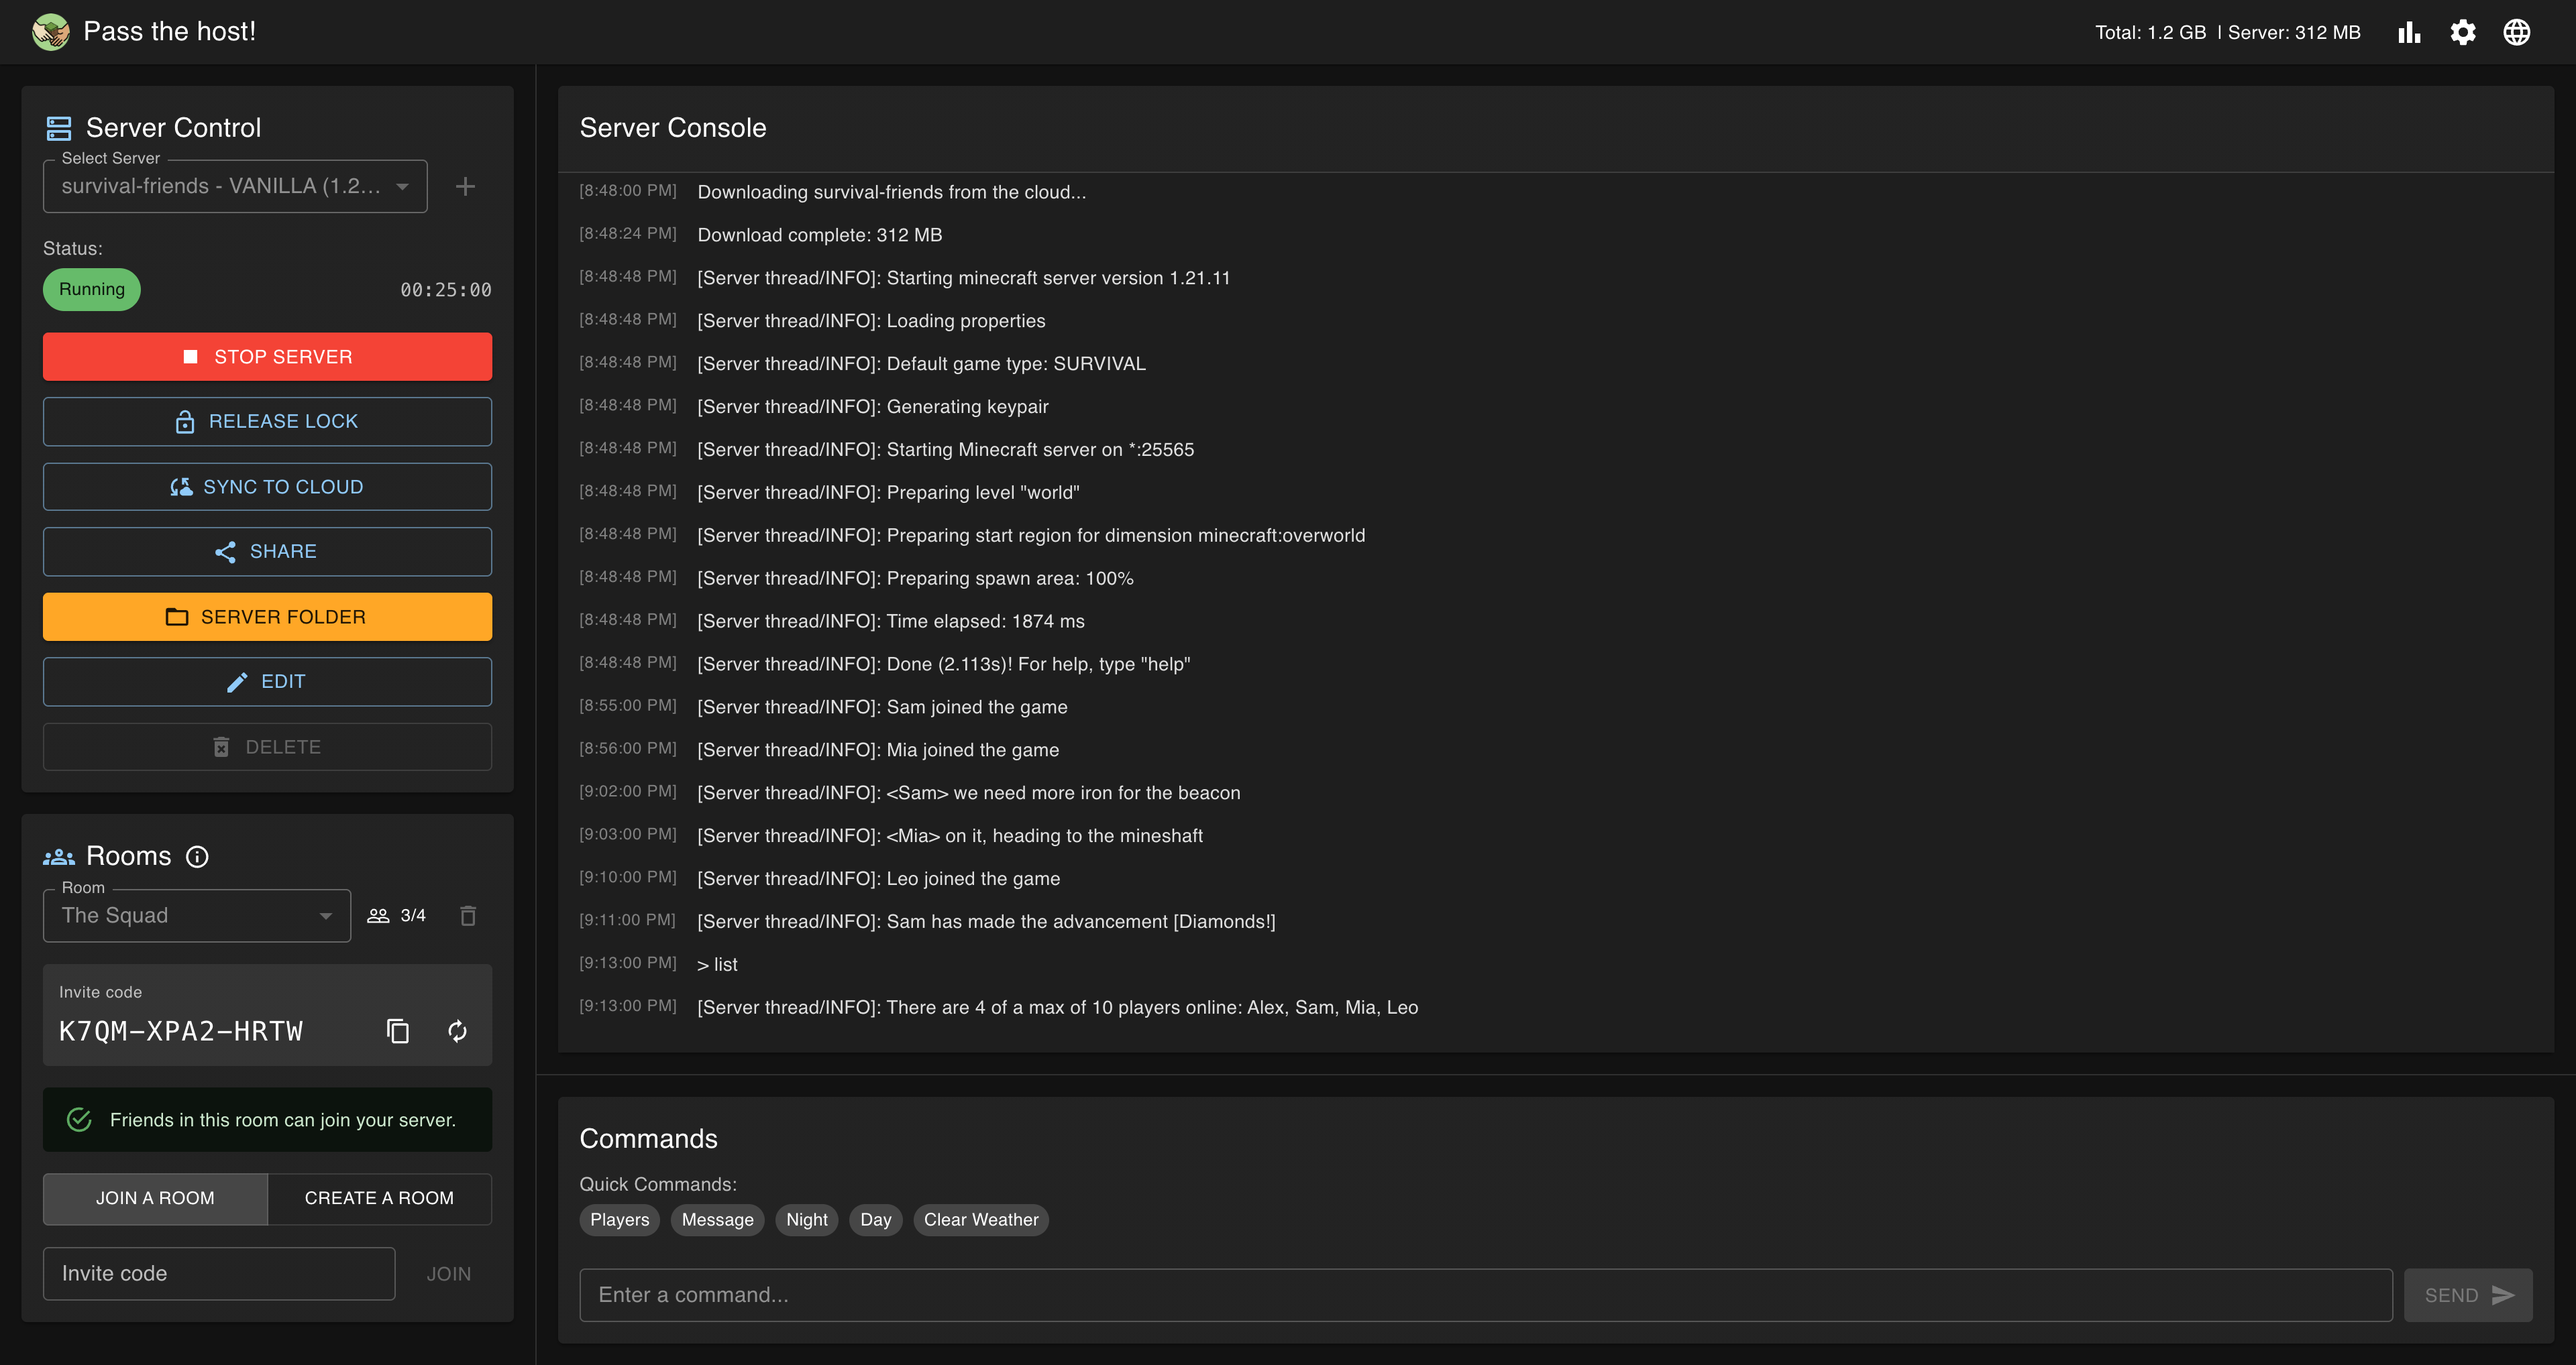
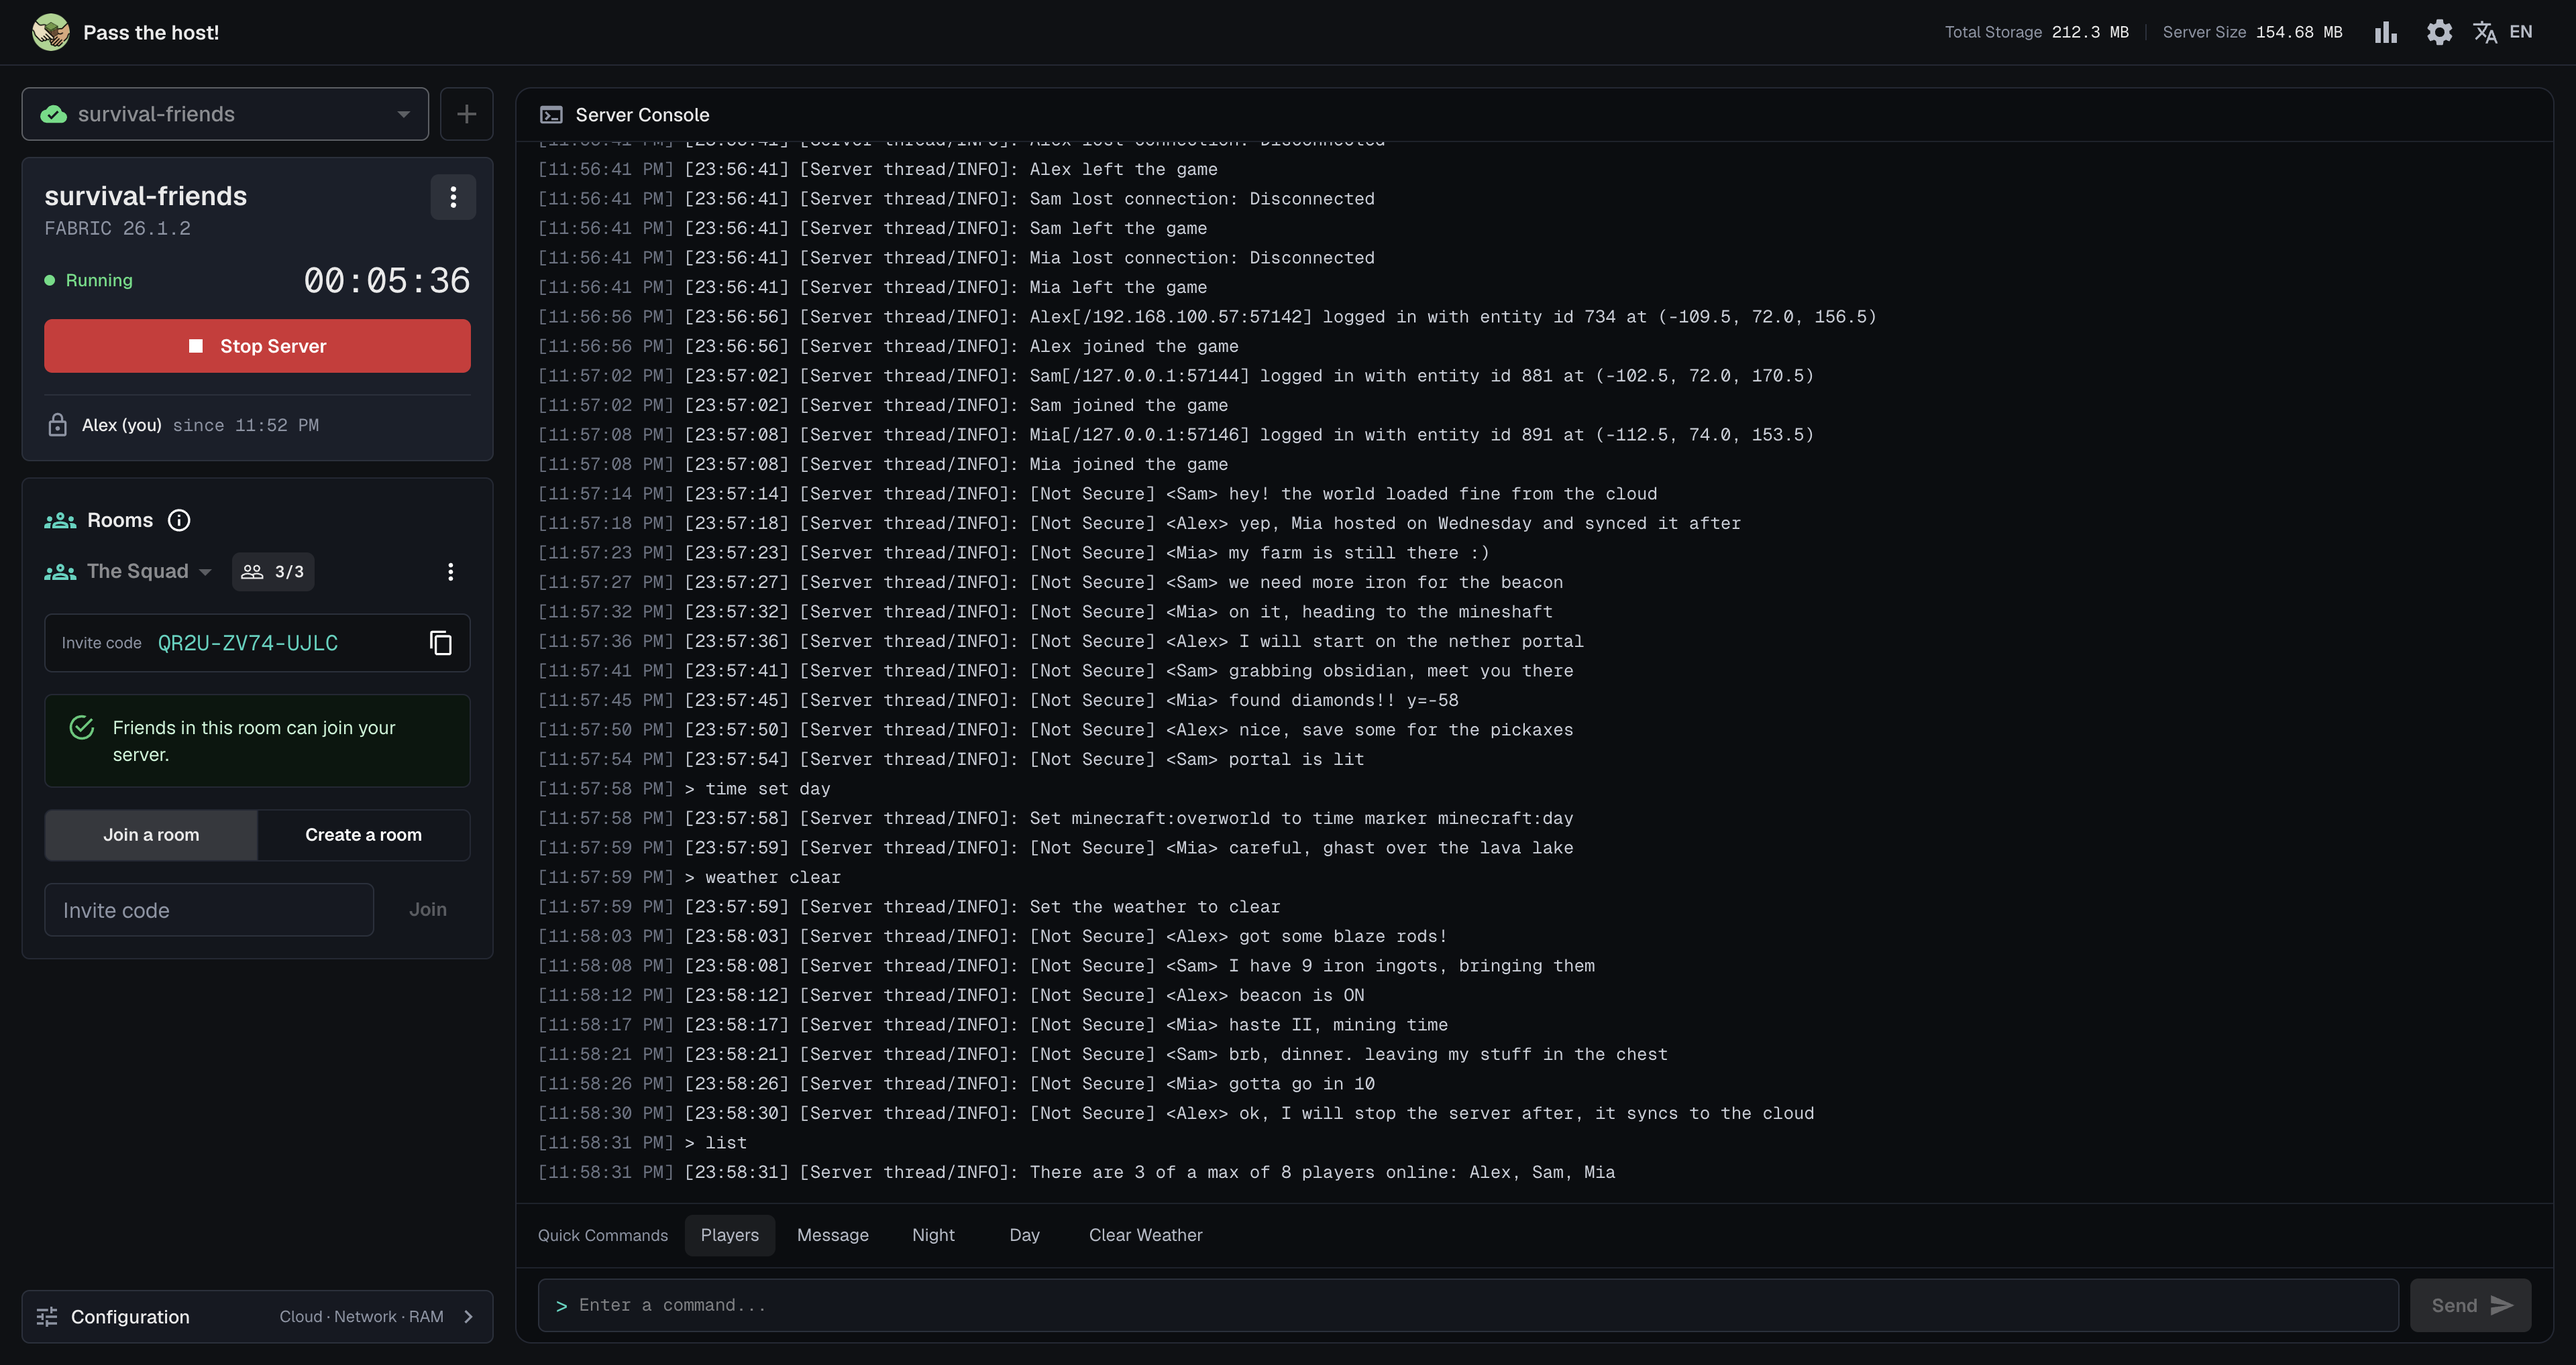
chore(site): add a screenshots section and refresh the hero and features shots
Claude-Session: https://claude.ai/code/session_01QGVTuk2ReewAoFpk41qBqj

diff --git a/site/app/dictionaries.ts b/site/app/dictionaries.ts
@@ -93,6 +93,32 @@ const es = {
     ],
     screenshotAlt: "Diálogo para crear un servidor nuevo en Pass the host",
   },
+  gallery: {
+    title: "Así se ve",
+    subtitle: "Capturas reales de un grupo jugando: uno hostea y el resto entra por la sala.",
+    items: [
+      {
+        title: "Tus amigos entran por la sala",
+        text: "Conectados al servidor de quien hostea, con los mods del servidor ya sincronizados.",
+        alt: "Pass the host de un amigo conectado a la sala, con la dirección localhost:25565 y los mods al día",
+      },
+      {
+        title: "Mods para cada lado",
+        text: "Distingue los mods del cliente, del servidor y de ambos, y avisa si alguno no es compatible.",
+        alt: "Gestor de mods de un servidor Fabric con la lista de mods instalados",
+      },
+      {
+        title: "Todo queda en tu nube",
+        text: "Al cerrar el servidor, los cambios se suben solos para que otro lo pueda abrir.",
+        alt: "Diálogo de subida a la nube con el progreso en Pass the host",
+      },
+      {
+        title: "Quién hosteó y cuánto",
+        text: "El historial de sesiones de cada servidor, con el tiempo total de juego.",
+        alt: "Estadísticas de un servidor con el tiempo total y el historial de sesiones",
+      },
+    ],
+  },
   storage: {
     title: "Tu nube, tus datos",
     subtitle:
@@ -282,6 +308,32 @@ const en: typeof es = {
       },
     ],
     screenshotAlt: "Dialog for creating a new server in Pass the host",
+  },
+  gallery: {
+    title: "A look inside",
+    subtitle: "Real screenshots of a group playing: one hosts and the rest join through the room.",
+    items: [
+      {
+        title: "Friends join through the room",
+        text: "Connected to whoever is hosting, with the server's mods already synced.",
+        alt: "A friend's Pass the host connected to the room, with the address localhost:25565 and the mods up to date",
+      },
+      {
+        title: "Mods for each side",
+        text: "Tells client, server and both-sides mods apart, and warns when one doesn't fit.",
+        alt: "Mods manager of a Fabric server listing the installed mods",
+      },
+      {
+        title: "Everything stays in your cloud",
+        text: "When you close the server, the changes upload on their own so someone else can open it.",
+        alt: "Cloud upload dialog with its progress in Pass the host",
+      },
+      {
+        title: "Who hosted, and for how long",
+        text: "Each server's session history, with the total playtime.",
+        alt: "Server statistics with the total playtime and the session history",
+      },
+    ],
   },
   storage: {
     title: "Your cloud, your data",

diff --git a/site/app/[lang]/page.tsx b/site/app/[lang]/page.tsx
@@ -49,6 +49,13 @@ const featureIcons = [
   LuChartColumn,
 ];
 
+const galleryImages = [
+  "/pass-the-host-friend-connected.png",
+  "/pass-the-host-mods.png",
+  "/pass-the-host-cloud-sync.png",
+  "/pass-the-host-statistics.png",
+];
+
 const providers = [
   "Cloudflare R2",
   "AWS S3",
@@ -122,6 +129,7 @@ export default async function PassTheHostPage({
         screenshot: [
           `${SITE_URL}/pass-the-host-home.png`,
           `${SITE_URL}/pass-the-host-create-server.png`,
+          ...galleryImages.map((src) => `${SITE_URL}${src}`),
         ],
         inLanguage: lang,
         license: "https://opensource.org/license/mit",
@@ -330,6 +338,33 @@ export default async function PassTheHostPage({
               className="w-full h-auto"
             />
           </figure>
+        </div>
+      </section>
+
+      <section className="max-w-6xl mx-auto px-4 sm:px-6 pt-24">
+        <h2 className="text-3xl sm:text-4xl font-bold text-[#EAEAEA]">
+          {t.gallery.title}
+        </h2>
+        <p className="mt-3 text-[#A1A1AA] max-w-2xl">{t.gallery.subtitle}</p>
+        <div className="mt-12 grid gap-10 md:grid-cols-2">
+          {t.gallery.items.map((item, i) => (
+            <figure key={item.title}>
+              <div className="overflow-hidden rounded-2xl border border-white/10 shadow-2xl shadow-black/40">
+                <Image
+                  src={galleryImages[i]}
+                  alt={item.alt}
+                  width={3840}
+                  height={2036}
+                  sizes="(min-width: 1152px) 544px, (min-width: 768px) 50vw, 100vw"
+                  className="w-full h-auto"
+                />
+              </div>
+              <figcaption className="mt-4">
+                <h3 className="font-semibold text-[#EAEAEA]">{item.title}</h3>
+                <p className="mt-1 text-sm text-[#A1A1AA]">{item.text}</p>
+              </figcaption>
+            </figure>
+          ))}
         </div>
       </section>
 
